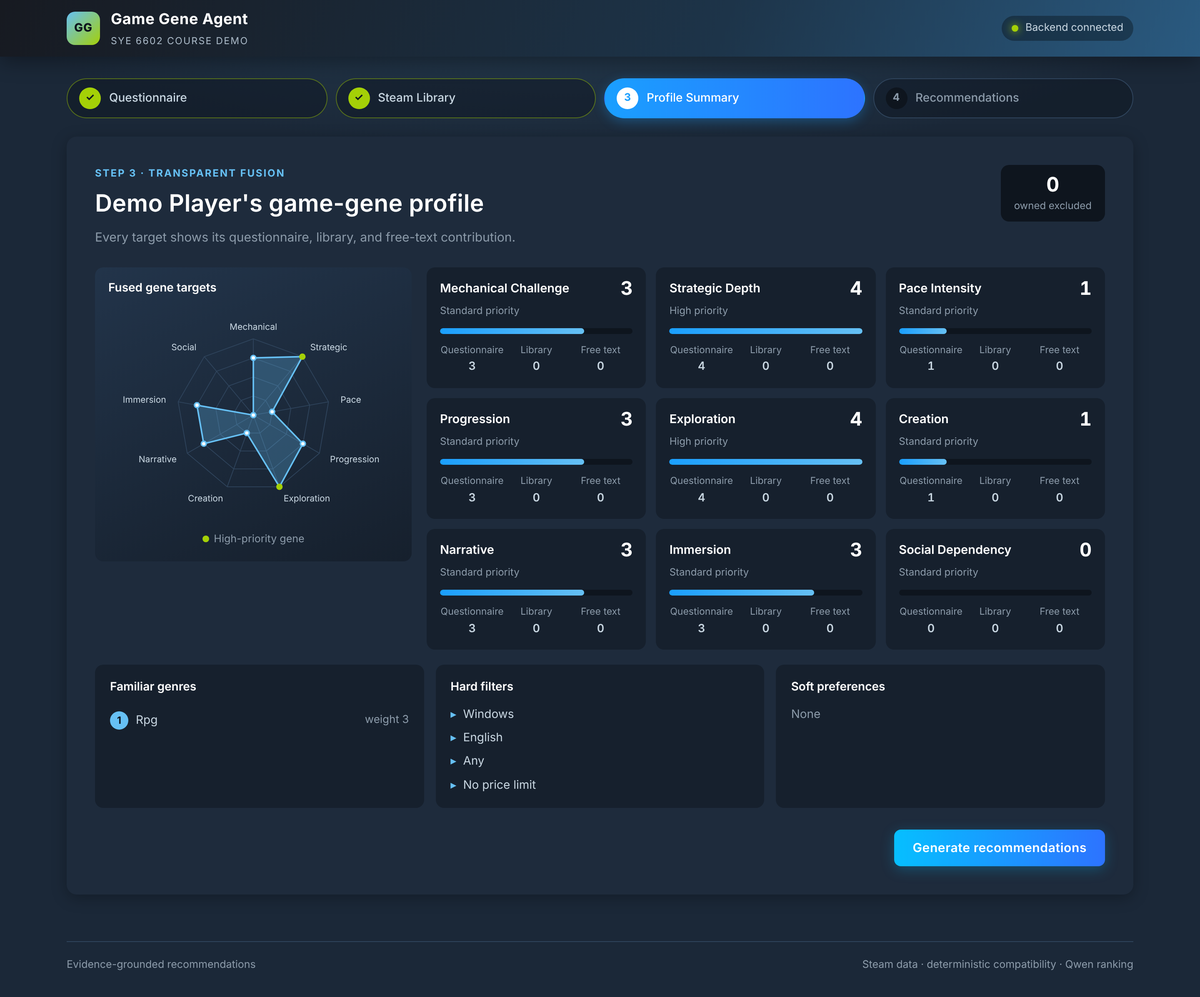
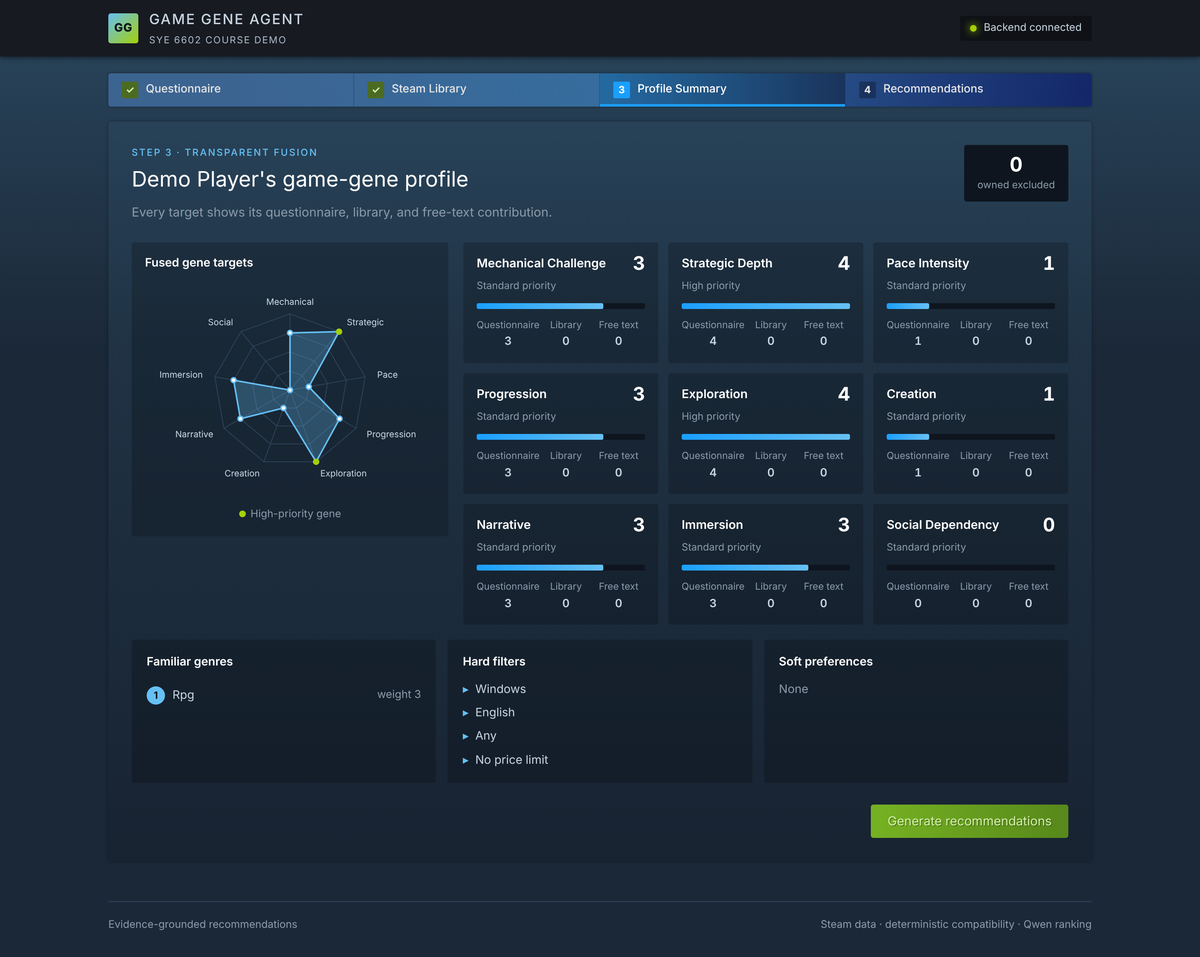
style(ui): square, flat Steam-style panels, step bar, buttons and badges

diff --git a/frontend/src/styles.css b/frontend/src/styles.css
@@ -17,71 +17,71 @@ button:disabled { cursor: wait; opacity: .6; }
 h1, h2, h3 { color: var(--white); }
 a { color: var(--blue); }
 
-.app-shell { min-height: 100vh; background: radial-gradient(1400px 520px at 50% -120px, #2a475e 0%, var(--bg) 60%) fixed, var(--bg); }
-.app-header { height: 68px; display: flex; align-items: center; justify-content: space-between; padding: 0 max(24px, calc((100vw - 1280px) / 2)); background: linear-gradient(110deg, var(--bg-deep) 0%, #1d3449 60%, #2a5a80 100%); box-shadow: 0 6px 24px rgba(0, 0, 0, .35); }
+.app-shell { min-height: 100vh; background: linear-gradient(180deg, #2a475e 0, var(--bg) 420px) no-repeat, var(--bg); }
+.app-header { height: 68px; display: flex; align-items: center; justify-content: space-between; padding: 0 max(24px, calc((100vw - 1180px) / 2)); background: var(--bg-deep); box-shadow: 0 0 7px rgba(0, 0, 0, .75); }
 .brand { display: flex; align-items: center; gap: 13px; }
-.brand-mark { display: grid; place-items: center; width: 40px; height: 40px; border-radius: 10px; color: var(--ink); font-weight: 800; font-size: 14px; letter-spacing: .5px; background: linear-gradient(135deg, var(--blue), var(--green)); }
+.brand-mark { display: grid; place-items: center; width: 36px; height: 36px; border-radius: 3px; color: var(--ink); font-weight: 800; font-size: 14px; letter-spacing: .5px; background: linear-gradient(135deg, var(--blue), var(--green)); }
 .brand div { display: grid; gap: 1px; }
-.brand strong { color: var(--white); font-size: 18px; letter-spacing: .4px; }
+.brand strong { color: var(--text); font-size: 17px; font-weight: 500; letter-spacing: 1.5px; text-transform: uppercase; }
 .brand small { color: #a9b8c6; font-size: 11.5px; letter-spacing: .1em; text-transform: uppercase; }
-.backend-status { display: flex; align-items: center; gap: 8px; padding: 5px 12px; border-radius: 999px; color: var(--text); font-size: 12.5px; background: rgba(0, 0, 0, .32); }
+.backend-status { display: flex; align-items: center; gap: 8px; padding: 5px 12px; border-radius: 2px; color: var(--text); font-size: 12.5px; background: rgba(0, 0, 0, .32); }
 .backend-status span { width: 8px; height: 8px; border-radius: 50%; background: var(--green); box-shadow: 0 0 10px var(--green); }
 
-.workflow-shell { width: min(1280px, calc(100% - 48px)); margin: 0 auto; padding: 26px 0 56px; }
-.step-indicator { display: grid; grid-template-columns: repeat(4, 1fr); gap: 10px; margin: 0 0 22px; padding: 0; list-style: none; }
-.step-indicator li { display: flex; align-items: center; gap: 10px; padding: 10px 14px; border: 1px solid var(--line); border-radius: 999px; color: var(--dim); background: rgba(14, 21, 30, .45); }
-.step-indicator li > span { display: grid; place-items: center; flex: none; width: 26px; height: 26px; border-radius: 50%; font-size: 12.5px; font-weight: 700; color: var(--dim); background: var(--ink); }
-.step-indicator small { font-size: 14px; font-weight: 500; white-space: nowrap; overflow: hidden; text-overflow: ellipsis; }
-.step-indicator .step-current { color: var(--white); border-color: transparent; background: linear-gradient(90deg, var(--blue-2), #2d73ff); box-shadow: 0 4px 14px rgba(26, 159, 255, .3); }
-.step-indicator .step-current > span { color: var(--blue-2); background: var(--white); }
-.step-indicator .step-complete { color: var(--text); border-color: rgba(164, 208, 7, .45); }
-.step-indicator .step-complete > span { color: var(--ink); background: var(--green); }
+.workflow-shell { width: min(1180px, calc(100% - 48px)); margin: 0 auto; padding: 20px 0 48px; }
+.step-indicator { display: grid; grid-template-columns: repeat(4, 1fr); margin: 0 0 18px; padding: 0; list-style: none; border-radius: 3px; overflow: hidden; background: linear-gradient(90deg, rgba(62, 103, 150, .92) 12%, rgba(58, 120, 177, .8) 50%, rgba(15, 33, 110, .8) 100%); box-shadow: 0 0 3px rgba(0, 0, 0, .4); }
+.step-indicator li { display: flex; align-items: center; gap: 9px; padding: 9px 16px; color: #e5e5e5; border-right: 1px solid rgba(0, 0, 0, .18); }
+.step-indicator li:last-child { border-right: 0; }
+.step-indicator li > span { display: grid; place-items: center; flex: none; width: 20px; height: 20px; border-radius: 2px; font-size: 12px; font-weight: 700; color: #e5e5e5; background: rgba(0, 0, 0, .28); }
+.step-indicator small { font-size: 13.5px; font-weight: 500; white-space: nowrap; overflow: hidden; text-overflow: ellipsis; }
+.step-indicator .step-current { color: var(--white); background: linear-gradient(90deg, rgba(33, 162, 255, .35) 0%, rgba(50, 50, 51, 0) 100%), rgba(0, 0, 0, .3); box-shadow: inset 0 -3px 0 var(--blue-2); }
+.step-indicator .step-current > span { color: var(--white); background: var(--blue-2); }
+.step-indicator .step-complete > span { color: #d2efa9; background: var(--green-bg); }
 
-.panel { padding: clamp(20px, 3vw, 34px); border-radius: 12px; background: var(--panel); box-shadow: 0 4px 18px rgba(0, 0, 0, .28); }
+.panel { padding: clamp(18px, 2.4vw, 28px); border-radius: 3px; background: linear-gradient(180deg, rgba(42, 71, 94, .55) 0%, rgba(22, 32, 45, .6) 100%); box-shadow: 0 0 5px rgba(0, 0, 0, .35); }
 .results-panel { padding: 0; }
 .section-heading { margin-bottom: 24px; }
-.section-heading h2, .track-heading h2 { margin: 2px 0 6px; font-size: clamp(1.45rem, 2.4vw, 1.9rem); font-weight: 600; letter-spacing: .2px; }
+.section-heading h2, .track-heading h2 { margin: 2px 0 6px; font-size: clamp(1.35rem, 2.1vw, 1.7rem); font-weight: 400; letter-spacing: 0; }
 .section-heading p, .track-heading p { max-width: 780px; margin: 0; color: var(--dim); }
-.eyebrow { margin: 0 0 4px !important; color: var(--blue) !important; font-size: 12px; font-weight: 700; letter-spacing: .12em; text-transform: uppercase; }
+.eyebrow { margin: 0 0 4px !important; color: var(--blue) !important; font-size: 11.5px; font-weight: 500; letter-spacing: .14em; text-transform: uppercase; }
 .heading-with-stat { display: flex; align-items: flex-start; justify-content: space-between; gap: 24px; }
-.metric { flex: none; display: grid; min-width: 112px; padding: 10px 16px; border-radius: 10px; text-align: center; background: var(--ink); }
+.metric { flex: none; display: grid; min-width: 112px; padding: 10px 16px; border-radius: 3px; text-align: center; background: var(--ink); }
 .metric strong { color: var(--white); font-size: 1.6rem; line-height: 1.2; font-variant-numeric: tabular-nums; }
 .metric span { color: var(--dim); font-size: 12px; }
 
 .field { display: grid; gap: 6px; color: var(--text); font-size: 13.5px; font-weight: 500; }
 .field-compact { max-width: 420px; margin-bottom: 22px; }
-.field input, .field textarea, .field select { width: 100%; padding: 10px 12px; color: var(--white); font-size: 15px; border: 1px solid var(--line); border-radius: 6px; outline: none; background: var(--ink); transition: border-color .15s, box-shadow .15s; }
+.field input, .field textarea, .field select { width: 100%; padding: 10px 12px; color: var(--white); font-size: 15px; border: 1px solid #000; border-radius: 2px; outline: none; background: rgba(0, 0, 0, .35); box-shadow: inset 1px 1px 0 rgba(0, 0, 0, .35); transition: border-color .15s, box-shadow .15s; }
 .field input::placeholder, .field textarea::placeholder { color: #566575; }
 .field textarea { resize: vertical; line-height: 1.55; }
 .field input:focus, .field textarea:focus, .field select:focus { border-color: var(--blue); box-shadow: 0 0 0 2px rgba(102, 192, 244, .25); }
 .field small { color: var(--dim); font-weight: 400; }
 
 .gene-grid { display: grid; grid-template-columns: repeat(auto-fit, minmax(min(100%, 300px), 1fr)); gap: 14px; margin-bottom: 26px; }
-.gene-control { padding: 16px; border-radius: 10px; background: rgba(14, 21, 30, .5); border: 1px solid transparent; transition: border-color .15s; }
+.gene-control { padding: 16px; border-radius: 3px; background: rgba(0, 0, 0, .2); border: 1px solid transparent; transition: border-color .15s; }
 .gene-control:hover { border-color: var(--line); }
 .gene-title-row { display: flex; align-items: flex-start; justify-content: space-between; gap: 12px; min-height: 66px; }
 .gene-title-row h3 { margin: 0 0 4px; font-size: 15.5px; font-weight: 600; }
 .gene-title-row p { margin: 0; color: var(--dim); font-size: 13px; line-height: 1.5; }
-.gene-title-row output { display: grid; place-items: center; width: 36px; height: 36px; flex: none; border-radius: 8px; color: var(--white); font-size: 17px; font-weight: 700; background: linear-gradient(135deg, var(--blue-2), #2d73ff); }
+.gene-title-row output { display: grid; place-items: center; width: 36px; height: 36px; flex: none; border-radius: 3px; color: var(--white); font-size: 17px; font-weight: 600; background: #3a78b1; }
 .gene-control input[type="range"] { width: 100%; accent-color: var(--blue); }
 .priority-toggle { display: flex; align-items: center; gap: 8px; margin-top: 8px; color: var(--text); font-size: 13px; }
 .priority-toggle input, .check-row input, .favorite-toggle input, .aspect-picker input, .consent-box input { accent-color: var(--blue-2); }
 
 .form-grid { display: grid; grid-template-columns: 1fr 1fr; gap: 16px; margin: 0 0 22px; }
-.choice-box { display: grid; gap: 12px; margin: 0; padding: 16px 18px 18px; border: 1px solid var(--line); border-radius: 10px; }
+.choice-box { display: grid; gap: 12px; margin: 0; padding: 16px 18px 18px; border: 1px solid var(--line); border-radius: 3px; }
 .choice-box legend { padding: 0 8px; color: var(--white); font-size: 14px; font-weight: 600; }
 .check-row { display: flex; align-items: center; gap: 8px; color: var(--text); font-size: 14.5px; }
 
-.button { min-height: 44px; padding: 10px 22px; border: 0; border-radius: 8px; font-size: 15px; font-weight: 600; letter-spacing: .3px; transition: transform .15s, box-shadow .15s, background .15s; }
-.button:not(:disabled):hover { transform: translateY(-1px); }
-.button-primary { color: var(--white); background: linear-gradient(90deg, #06bfff 0%, #2d73ff 100%); box-shadow: 0 4px 16px rgba(6, 191, 255, .25); }
-.button-ghost { color: var(--blue); background: var(--panel-2); }
-.button-ghost:not(:disabled):hover { background: #30496a; }
+.button { min-height: 38px; padding: 8px 20px; border: 0; border-radius: 3px; font-size: 15px; font-weight: 400; transition: background .15s, color .15s; }
+.button-primary { color: #d2efa9; background: linear-gradient(90deg, #75b022 5%, #588a1b 95%); text-shadow: 1px 1px 0 rgba(0, 0, 0, .3); }
+.button-primary:not(:disabled):hover { color: var(--white); background: linear-gradient(90deg, #8ed629 5%, #6aa621 95%); }
+.button-ghost { color: #67c1f5; background: rgba(103, 193, 245, .2); }
+.button-ghost:not(:disabled):hover { color: var(--white); background: linear-gradient(135deg, #67c1f5 0%, #417a9b 100%); }
 .actions { display: flex; gap: 12px; margin-top: 26px; }
 .actions-end { justify-content: flex-end; }
 .split-actions { justify-content: space-between; }
 
-.notice { margin: 0 0 18px; padding: 11px 14px; border-radius: 8px; border-left: 3px solid var(--line); font-size: 14.5px; background: rgba(14, 21, 30, .55); }
+.notice { margin: 0 0 18px; padding: 11px 14px; border-radius: 3px; border-left: 3px solid var(--line); font-size: 14.5px; background: rgba(14, 21, 30, .55); }
 .notice-error { border-left-color: var(--red); color: #f3c6c2; background: rgba(224, 84, 76, .13); }
 .notice-warning { border-left-color: var(--gold); color: #ecd9ab; }
 .notice-info { border-left-color: var(--blue); }
@@ -90,7 +90,7 @@ a { color: var(--blue); }
 
 .interpretation-grid, .summary-columns { display: grid; grid-template-columns: repeat(3, 1fr); gap: 14px; margin: 18px 0; }
 .interpretation-grid { grid-template-columns: 1fr 1fr; }
-.summary-card { padding: 16px 18px; border-radius: 10px; background: rgba(14, 21, 30, .5); }
+.summary-card { padding: 16px 18px; border-radius: 3px; background: rgba(0, 0, 0, .2); }
 .summary-card h3 { margin: 0 0 10px; font-size: 14px; font-weight: 600; }
 .plain-list, .bullet-list, .ranked-list { margin: 0; padding: 0; list-style: none; }
 .plain-list li, .ranked-list li { display: flex; align-items: center; justify-content: space-between; padding: 7px 0; border-bottom: 1px solid var(--line); font-size: 14px; }
@@ -103,40 +103,40 @@ a { color: var(--blue); }
 .bullet-list { display: grid; gap: 6px; font-size: 14px; }
 .bullet-list li::before { content: "▸"; margin-right: 8px; color: var(--blue); }
 .tag-row { display: flex; flex-wrap: wrap; gap: 6px; }
-.tag { padding: 2px 9px; border-radius: 4px; color: #7cc8f6; font-size: 12.5px; line-height: 1.7; background: rgba(103, 193, 245, .16); }
+.tag { padding: 2px 9px; border-radius: 2px; color: #7cc8f6; font-size: 12.5px; line-height: 1.7; background: rgba(103, 193, 245, .16); }
 .tag-match { color: #d8f3ae; background: var(--green-bg); }
 .muted { color: var(--dim); font-size: 14px; }
 
 .steam-form { display: grid; gap: 16px; max-width: 760px; }
-.consent-box { display: flex; align-items: flex-start; gap: 12px; padding: 14px 16px; border-radius: 10px; background: rgba(14, 21, 30, .5); }
+.consent-box { display: flex; align-items: flex-start; gap: 12px; padding: 14px 16px; border-radius: 3px; background: rgba(0, 0, 0, .2); }
 .consent-box input { margin-top: 4px; }
 .consent-box span { display: grid; gap: 3px; font-size: 14.5px; }
 .consent-box strong { color: var(--white); font-weight: 600; }
 .consent-box small { color: var(--dim); }
 .library-list { display: grid; grid-template-columns: repeat(auto-fill, minmax(min(100%, 360px), 1fr)); gap: 12px; max-height: 620px; overflow: auto; padding-right: 6px; }
-.library-game { padding: 14px 16px; border: 1px solid transparent; border-radius: 10px; background: rgba(14, 21, 30, .5); transition: border-color .15s, background .15s; }
+.library-game { padding: 14px 16px; border: 1px solid transparent; border-radius: 3px; background: rgba(0, 0, 0, .2); transition: border-color .15s, background .15s; }
 .library-game.selected { grid-column: 1 / -1; border-color: var(--blue); background: rgba(26, 159, 255, .1); }
 .library-game-header { display: flex; align-items: center; gap: 14px; }
 .library-game-header h3 { margin: 0 0 2px; font-size: 15px; font-weight: 600; }
 .library-game-header p { margin: 0; color: var(--dim); font-size: 13px; }
 .favorite-toggle { display: grid; justify-items: center; gap: 2px; min-width: 60px; color: var(--dim); font-size: 12px; }
 .favorite-toggle input { width: 19px; height: 19px; }
-.aspect-picker { display: flex; flex-wrap: wrap; gap: 7px; margin: 12px 0 0 74px; padding: 12px; border: 0; border-radius: 8px; background: var(--ink); }
+.aspect-picker { display: flex; flex-wrap: wrap; gap: 7px; margin: 12px 0 0 74px; padding: 12px; border: 0; border-radius: 3px; background: var(--ink); }
 .aspect-picker legend { padding-top: 10px; color: var(--dim); font-size: 12.5px; font-weight: 600; }
-.aspect-picker label { display: flex; align-items: center; gap: 6px; padding: 5px 10px; border-radius: 6px; font-size: 13px; background: var(--panel); }
+.aspect-picker label { display: flex; align-items: center; gap: 6px; padding: 5px 10px; border-radius: 2px; font-size: 13px; background: var(--panel); }
 
-.job-progress { margin: 20px 0; padding: 14px 16px; border-radius: 10px; background: var(--ink); }
+.job-progress { margin: 20px 0; padding: 14px 16px; border-radius: 3px; background: var(--ink); }
 .job-progress div { display: flex; justify-content: space-between; margin-bottom: 8px; font-size: 13.5px; }
 .job-progress strong { color: var(--white); }
 .job-progress progress { width: 100%; height: 8px; accent-color: var(--blue); }
-.empty-state { padding: 40px 20px; border: 1px dashed var(--line); border-radius: 10px; text-align: center; }
+.empty-state { padding: 40px 20px; border: 1px dashed var(--line); border-radius: 3px; text-align: center; }
 .empty-state h3 { margin: 0 0 6px; font-size: 17px; }
 .empty-state p { margin: 0; color: var(--dim); }
 .empty-state.compact { padding: 26px; }
 
 /* profile summary: radar beside the nine contribution cards */
 .profile-layout { display: grid; grid-template-columns: minmax(280px, 380px) 1fr; gap: 18px; align-items: start; }
-.radar-card { padding: 14px 16px 10px; border-radius: 10px; background: linear-gradient(160deg, #22344a, #16202d); position: sticky; top: 14px; }
+.radar-card { padding: 14px 16px 10px; border-radius: 3px; background: rgba(0, 0, 0, .2); position: sticky; top: 14px; }
 .radar-card h3 { margin: 0 0 4px; font-size: 14px; font-weight: 600; }
 .gene-radar { width: 100%; height: auto; display: block; }
 .gene-radar .grid { fill: none; stroke: var(--line); stroke-width: 1; }
@@ -148,12 +148,12 @@ a { color: var(--blue); }
 .radar-legend { margin: 2px 0 6px; color: var(--dim); font-size: 12.5px; text-align: center; }
 .radar-legend i { display: inline-block; width: 8px; height: 8px; margin-right: 6px; border-radius: 50%; background: var(--green); }
 .profile-gene-grid { display: grid; grid-template-columns: repeat(auto-fill, minmax(min(100%, 230px), 1fr)); gap: 12px; }
-.profile-gene { padding: 14px 16px; border-radius: 10px; background: rgba(14, 21, 30, .5); }
+.profile-gene { padding: 14px 16px; border-radius: 3px; background: rgba(0, 0, 0, .2); }
 .profile-gene-heading { display: flex; justify-content: space-between; align-items: flex-start; gap: 10px; }
 .profile-gene-heading h3 { margin: 0 0 2px; font-size: 14.5px; font-weight: 600; }
 .profile-gene-heading span { color: var(--dim); font-size: 12px; }
 .profile-gene-heading > strong { color: var(--white); font-size: 1.5rem; line-height: 1.1; font-variant-numeric: tabular-nums; }
-.gene-bar { height: 7px; margin: 10px 0; overflow: hidden; border-radius: 4px; background: var(--ink); }
+.gene-bar { height: 7px; margin: 10px 0; overflow: hidden; border-radius: 2px; background: var(--ink); }
 .gene-bar span { display: block; height: 100%; border-radius: inherit; background: linear-gradient(90deg, var(--blue-2), var(--blue)); }
 .profile-gene dl { display: grid; grid-template-columns: repeat(3, 1fr); margin: 0; }
 .profile-gene dl div { display: grid; gap: 1px; text-align: center; }
@@ -161,53 +161,55 @@ a { color: var(--blue); }
 .profile-gene dd { margin: 0; color: var(--text); font-size: 13.5px; font-weight: 600; font-variant-numeric: tabular-nums; }
 
 /* results */
-.results-hero { position: relative; overflow: hidden; padding: 30px 34px; border-radius: 12px; background: linear-gradient(110deg, var(--bg-deep) 0%, #1d3449 55%, #2a5a80 100%); box-shadow: 0 8px 28px rgba(0, 0, 0, .35); }
-.results-hero h1 { margin: 2px 0 8px; font-size: clamp(1.9rem, 3.6vw, 2.8rem); font-weight: 700; letter-spacing: .2px; }
+.results-hero { position: relative; overflow: hidden; padding: 22px 26px; border-radius: 3px; background: linear-gradient(90deg, rgba(0, 0, 0, .35) 0%, rgba(42, 90, 128, .55) 100%); }
+.results-hero h1 { margin: 2px 0 8px; font-size: clamp(1.6rem, 2.8vw, 2.1rem); font-weight: 400; }
 .results-hero > p:not(.eyebrow) { max-width: 760px; margin: 0; color: #a9b8c6; }
-.result-status { position: absolute; top: 26px; right: 30px; padding: 5px 13px; border-radius: 999px; color: var(--white); font-size: 12.5px; font-weight: 600; background: rgba(0, 0, 0, .35); }
+.result-status { position: absolute; top: 26px; right: 30px; padding: 5px 13px; border-radius: 2px; color: var(--white); font-size: 12.5px; font-weight: 600; background: rgba(0, 0, 0, .35); }
 .result-status.status-ok { color: var(--ink); background: var(--green); }
 .result-status.status-closest_only, .result-status.status-no_match { color: var(--ink); background: var(--gold); }
 .result-status.status-failed { background: var(--red); }
-.track-section { margin-top: 28px; }
-.track-heading { display: flex; align-items: flex-end; justify-content: space-between; gap: 16px; margin-bottom: 12px; padding-left: 12px; border-left: 3px solid var(--blue); }
-.track-section.track-cross .track-heading { border-left-color: var(--violet); }
-.track-heading h2 { font-size: 1.35rem; margin: 0 0 2px; }
-.track-heading > span { flex: none; padding: 2px 11px; border-radius: 999px; color: var(--ink); font-size: 12.5px; font-weight: 600; background: var(--blue); }
-.track-section.track-cross .track-heading > span { color: var(--white); background: var(--violet); }
-.recommendation-list { display: grid; gap: 14px; }
-.recommendation-card { display: grid; grid-template-columns: minmax(240px, 320px) 1fr; overflow: hidden; border-radius: 10px; background: linear-gradient(100deg, #22344a 0%, #182535 70%); box-shadow: 0 4px 16px rgba(0, 0, 0, .3); transition: transform .15s, box-shadow .15s; }
-.recommendation-card:hover { transform: translateY(-2px); box-shadow: 0 10px 28px rgba(0, 0, 0, .45), 0 0 0 1px rgba(102, 192, 244, .4); }
+.track-section { margin-top: 24px; }
+.track-heading { display: flex; align-items: flex-end; justify-content: space-between; gap: 16px; margin-bottom: 10px; padding-bottom: 8px; border-bottom: 1px solid rgba(103, 193, 245, .25); }
+.track-heading h2 { font-size: 15px; font-weight: 500; letter-spacing: .12em; text-transform: uppercase; margin: 0 0 2px; }
+.track-heading p { font-size: 13.5px; }
+.track-heading > span { flex: none; padding: 2px 11px; border-radius: 2px; color: var(--ink); font-size: 12.5px; font-weight: 600; background: var(--blue); }
+.track-section.track-cross .track-heading > span { color: var(--white); background: #6b4fa3; }
+.recommendation-list { display: grid; gap: 6px; }
+.recommendation-card { display: grid; grid-template-columns: minmax(240px, 320px) 1fr; overflow: hidden; border-radius: 2px; background: rgba(0, 0, 0, .22); transition: background .15s; }
+.recommendation-card:hover { background: linear-gradient(90deg, rgba(103, 193, 245, .22) 0%, rgba(0, 0, 0, .22) 80%); }
 .capsule { position: relative; min-height: 150px; background: linear-gradient(135deg, #2f5674, var(--bg)); }
 .capsule-name { position: absolute; inset: 0; display: grid; place-items: center; padding: 0 14px; color: rgba(255, 255, 255, .75); font-size: 18px; font-weight: 700; text-align: center; }
 .capsule-image { position: absolute; inset: 0; background: center / cover no-repeat; }
 .capsule-foot { position: absolute; left: 0; right: 0; bottom: 0; display: flex; justify-content: flex-end; padding: 26px 12px 10px; background: linear-gradient(180deg, rgba(14, 21, 30, 0), rgba(14, 21, 30, .92) 60%); }
 .store-link { color: var(--blue); font-size: 13.5px; text-decoration: none; }
 .store-link:hover { color: var(--white); }
-.recommendation-rank { position: absolute; left: 10px; top: 10px; display: flex; align-items: baseline; gap: 6px; padding: 3px 10px; border-radius: 4px; background: rgba(14, 21, 30, .8); }
+.recommendation-rank { position: absolute; left: 10px; top: 10px; display: flex; align-items: baseline; gap: 6px; padding: 3px 10px; border-radius: 2px; background: rgba(14, 21, 30, .8); }
 .recommendation-rank span { color: var(--dim); font-size: 11.5px; font-weight: 600; text-transform: uppercase; letter-spacing: .06em; }
 .recommendation-rank strong { color: var(--white); font-size: 16px; }
 .recommendation-content { display: flex; flex-direction: column; gap: 11px; min-width: 0; padding: 16px 20px 18px; }
 .recommendation-title { display: flex; justify-content: space-between; align-items: flex-start; gap: 16px; }
-.recommendation-title h3 { margin: 0 0 2px; font-size: 20px; font-weight: 600; line-height: 1.25; }
+.recommendation-title h3 { margin: 0 0 2px; font-size: 19px; font-weight: 400; line-height: 1.25; }
 .recommendation-title p { margin: 0; color: var(--dim); font-size: 12.5px; }
-.compatibility { flex: none; display: grid; justify-items: center; min-width: 78px; padding: 7px 10px; border-radius: 8px; background: #3a78b1; }
-.compatibility.high { background: #4c9a2a; }
-.compatibility.low { background: #7a6a3a; }
-.compatibility strong { color: var(--white); font-size: 24px; line-height: 1.1; font-variant-numeric: tabular-nums; }
-.compatibility span { color: rgba(255, 255, 255, .88); font-size: 11px; white-space: nowrap; }
+.compatibility { flex: none; display: grid; justify-items: center; min-width: 84px; padding: 5px 10px 6px; border-radius: 2px; background: #2a5d84; }
+.compatibility.high { background: var(--green-bg); }
+.compatibility.low { background: #4f4a3a; }
+.compatibility strong { color: #c9e8fc; font-size: 25px; font-weight: 500; line-height: 1.15; font-variant-numeric: tabular-nums; }
+.compatibility.high strong { color: #beee11; }
+.compatibility.low strong { color: #e8c57c; }
+.compatibility span { color: rgba(255, 255, 255, .8); font-size: 10.5px; white-space: nowrap; }
 .ranking-reason { margin: 0; color: #e3edf5; font-size: 15px; line-height: 1.6; }
 .recommendation-card details { color: var(--dim); font-size: 13px; }
 .recommendation-card summary { cursor: pointer; }
 .recommendation-card details ul { display: flex; flex-wrap: wrap; gap: 6px; margin: 8px 0 0; padding: 0; list-style: none; }
-.recommendation-card code { padding: 2px 8px; border-radius: 4px; color: var(--blue); font-size: 12.5px; background: var(--ink); }
-.caution { padding: 9px 12px; border-radius: 8px; border-left: 3px solid var(--gold); color: #ecd9ab; font-size: 14px; background: rgba(229, 177, 67, .1); }
+.recommendation-card code { padding: 2px 8px; border-radius: 2px; color: var(--blue); font-size: 12.5px; background: var(--ink); }
+.caution { padding: 9px 12px; border-radius: 3px; border-left: 3px solid var(--gold); color: #ecd9ab; font-size: 14px; background: rgba(229, 177, 67, .1); }
 .caution strong { color: var(--gold); }
 .caution p { margin: 2px 0 0; }
 
-footer { display: flex; justify-content: space-between; width: min(1280px, calc(100% - 48px)); margin: 0 auto; padding: 18px 0 28px; border-top: 1px solid var(--line); color: var(--dim); font-size: 12.5px; }
+footer { display: flex; justify-content: space-between; width: min(1180px, calc(100% - 48px)); margin: 0 auto; padding: 18px 0 28px; border-top: 1px solid var(--line); color: var(--dim); font-size: 12.5px; }
 .splash { min-height: 100vh; display: grid; place-items: center; align-content: center; gap: 14px; padding: 24px; color: var(--dim); background: radial-gradient(circle at center, #2a475e, var(--bg) 60%); }
 .loader { width: 34px; height: 34px; border: 3px solid var(--line); border-top-color: var(--blue); border-radius: 50%; animation: spin .8s linear infinite; }
-.fatal-card { width: min(500px, 100%); padding: 32px; border-radius: 12px; background: var(--panel); box-shadow: 0 20px 60px rgba(0, 0, 0, .4); }
+.fatal-card { width: min(500px, 100%); padding: 32px; border-radius: 3px; background: var(--panel); box-shadow: 0 20px 60px rgba(0, 0, 0, .4); }
 .fatal-card h1 { margin: 0 0 8px; }
 @keyframes spin { to { transform: rotate(360deg); } }
 
@@ -219,8 +221,7 @@ footer { display: flex; justify-content: space-between; width: min(1280px, calc(
 
 @media (max-width: 760px) {
   .recommendation-card { grid-template-columns: 1fr; }
-  .step-indicator { gap: 6px; }
-  .step-indicator li { justify-content: center; padding: 8px; }
+  .step-indicator li { justify-content: center; padding: 9px 6px; }
   .step-indicator small { display: none; }
 }
 

diff --git a/README.md b/README.md
@@ -27,9 +27,10 @@ The implementation is complete through Batch 6C. See
 
 ## Interface
 
-The React UI uses a dark storefront-style theme (deep navy surfaces, light-blue accent,
-green compatibility badges), a centred fluid layout, a nine-axis gene radar on the profile
-step, and full-width recommendation rows with a Steam capsule image and store link.
+The React UI follows Steam storefront conventions: flat square-cornered panels on a deep
+navy background, a rectangular step bar, small tag chips, green action buttons, a
+discount-block style compatibility badge, a nine-axis gene radar on the profile step, and
+full-width recommendation rows with a capsule image and store link.
 
 ![Recommendations](docs/screenshots/recommendations.png)
 
